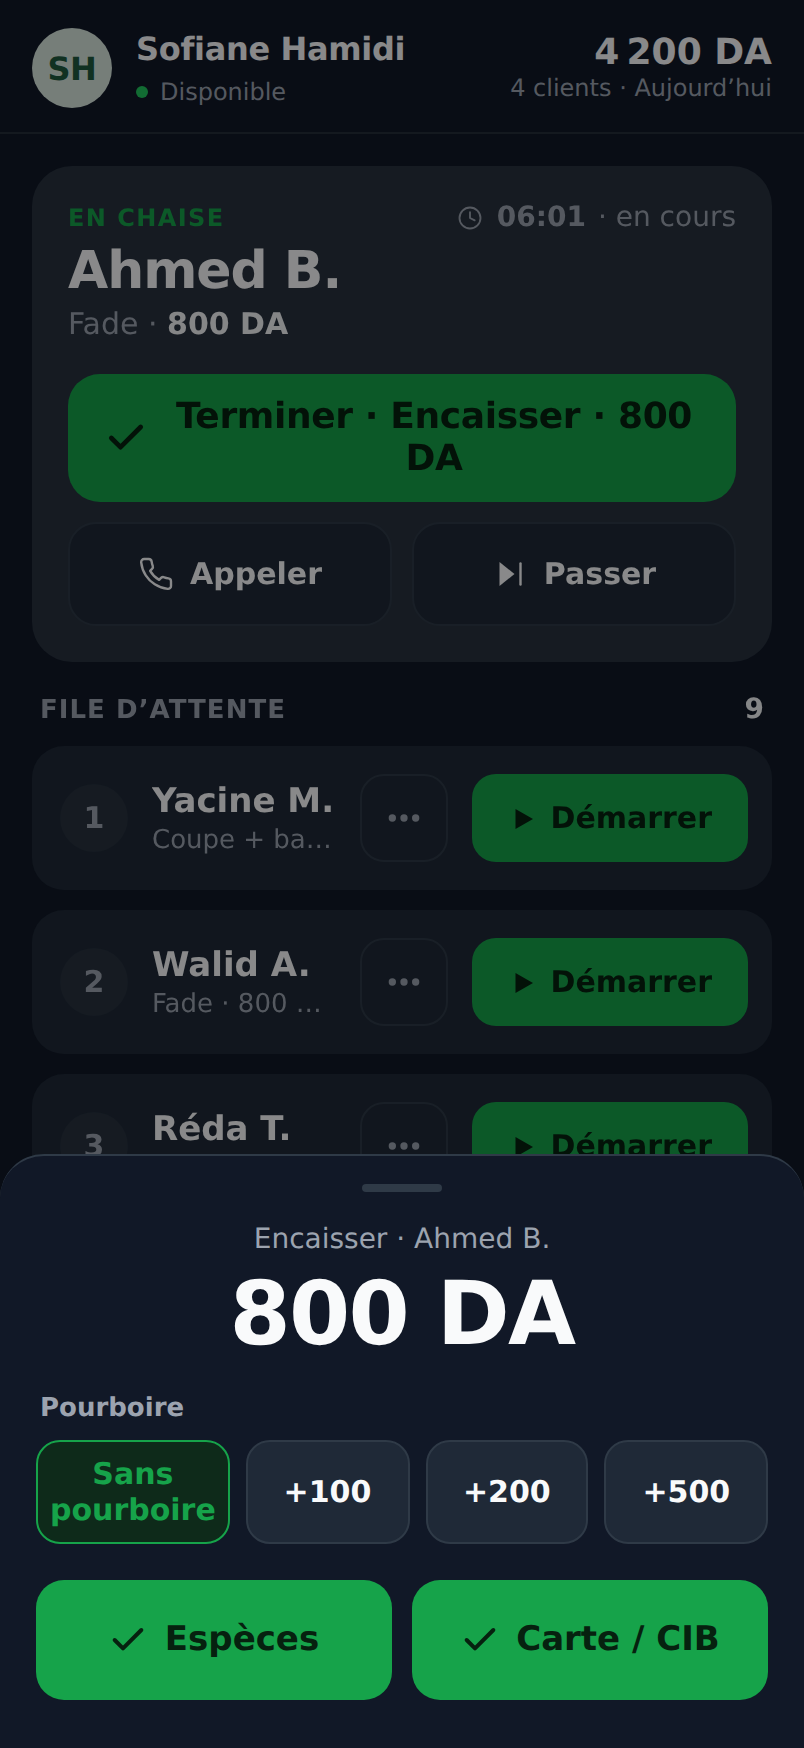
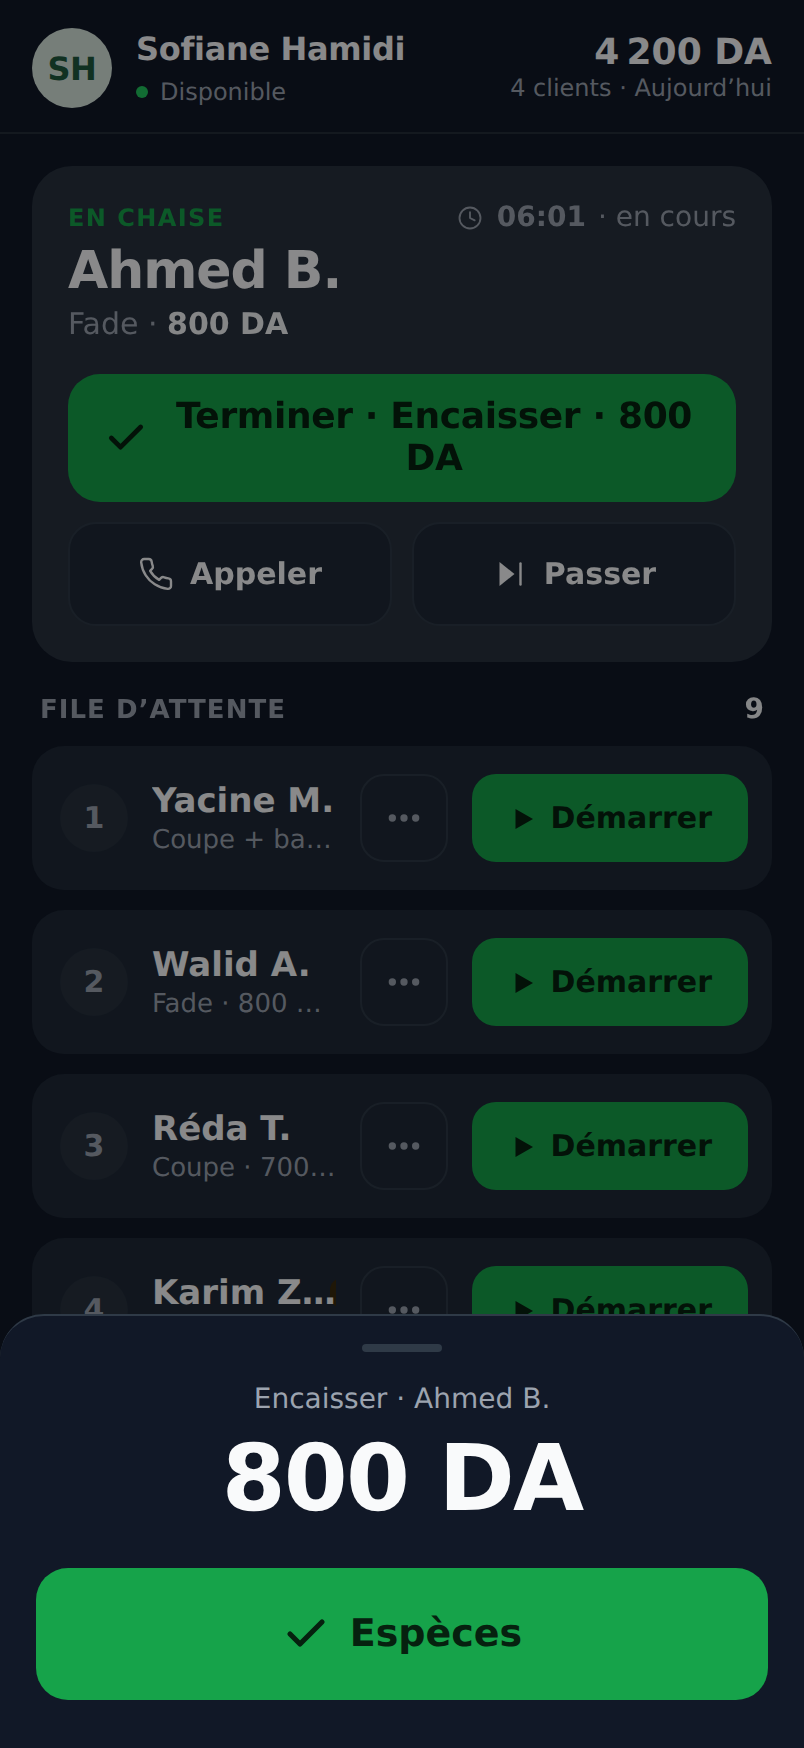
Checkout: cash only — remove tip (pourboire) and card/CIB options
Per request: the fast checkout now shows just the amount + one big "Espèces"
(cash) button. Removed the tip chips and the "Carte / CIB" button, dropped the
now-unused tip/card strings, and refreshed the checkout screenshot.

https://claude.ai/code/session_01KXeZ2jfMa8Hu5hkugmRzRp

diff --git a/src/barber-fast.jsx b/src/barber-fast.jsx
@@ -12,7 +12,6 @@ const FAST_STR = {
     queue: 'File d’attente', empty: 'File vide — soufflez un peu ☕', waiting: 'en attente',
     add: 'Ajouter un client', addToQueue: 'Ajouter à la file', walkIn: 'Walk-in',
     name: 'Nom (optionnel)', service: 'Service', cashIn: 'Encaisser', cash: 'Espèces',
-    card: 'Carte / CIB', noTip: 'Sans pourboire', tip: 'Pourboire', total: 'Total',
     noShow: 'Absent', today: "Aujourd’hui", clients: 'clients', doneToday: 'Terminés',
     revenue: 'Recette', available: 'Disponible', busy: 'Occupé', running: 'en cours',
     tabNow: 'File', tabDone: 'Terminés', tabMore: 'Réglages', language: 'Langue',
@@ -25,7 +24,6 @@ const FAST_STR = {
     queue: 'قائمة الانتظار', empty: 'القائمة فارغة — استرِح قليلاً ☕', waiting: 'بالانتظار',
     add: 'إضافة زبون', addToQueue: 'أضف إلى القائمة', walkIn: 'بدون موعد',
     name: 'الاسم (اختياري)', service: 'الخدمة', cashIn: 'تحصيل', cash: 'نقداً',
-    card: 'بطاقة', noTip: 'بدون بقشيش', tip: 'بقشيش', total: 'المجموع',
     noShow: 'غائب', today: 'اليوم', clients: 'زبائن', doneToday: 'المنتهية',
     revenue: 'المداخيل', available: 'متاح', busy: 'مشغول', running: 'جارٍ',
     tabNow: 'القائمة', tabDone: 'المنتهية', tabMore: 'الإعدادات', language: 'اللغة',
@@ -325,43 +323,25 @@ function tag(bg, fg) {
   };
 }
 
-// Fast checkout: amount up top, optional tip chips, two big "paid by" buttons.
+// Fast checkout: amount + a single big "cash" button — cash only, no tip.
 function FastPaySheet({ L, t, fmt, client, onClose, onPay }) {
-  const [tip, setTip] = React.useState(0);
-  const total = client.price + tip;
-  const tips = [0, 100, 200, 500];
+  const total = client.price;
   return (
     <div onClick={onClose} style={overlay()}>
       <div onClick={e => e.stopPropagation()} style={sheet(t.dir)}>
         <div style={grabber()} />
-        <div style={{ textAlign: 'center', marginBottom: 6 }}>
+        <div style={{ textAlign: 'center', marginBottom: 18 }}>
           <div style={{ fontSize: 14, color: TOKENS.muted }}>{L.cashIn} · {client.name}</div>
-          <div style={{ fontSize: 44, fontWeight: 800, letterSpacing: '-0.02em', marginTop: 4, fontVariantNumeric: 'tabular-nums' }}>{fmt(total)}</div>
+          <div style={{ fontSize: 46, fontWeight: 800, letterSpacing: '-0.02em', marginTop: 4, fontVariantNumeric: 'tabular-nums' }}>{fmt(total)}</div>
         </div>
-        <div style={{ fontSize: 13, color: TOKENS.muted, fontWeight: 600, margin: '14px 2px 8px' }}>{L.tip}</div>
-        <div style={{ display: 'grid', gridTemplateColumns: '1fr 1fr 1fr 1fr', gap: 8 }}>
-          {tips.map(v => (
-            <button key={v} onClick={() => setTip(v)} style={{
-              minHeight: 52, borderRadius: 12, cursor: 'pointer', fontFamily: 'inherit', fontSize: 15, fontWeight: 700,
-              background: tip === v ? TOKENS.accentSoft : TOKENS.surface, color: tip === v ? TOKENS.accent : TOKENS.ink,
-              border: `1.5px solid ${tip === v ? TOKENS.accent : TOKENS.border}`,
-            }}>{v === 0 ? L.noTip : `+${v}`}</button>
-          ))}
-        </div>
-        <div style={{ display: 'flex', gap: 10, marginTop: 18 }}>
-          <button onClick={() => onPay(total, 'cash')} style={payBtn()}><Icon name="check" size={20} stroke={2.4} /> {L.cash}</button>
-          <button onClick={() => onPay(total, 'card')} style={payBtn()}><Icon name="check" size={20} stroke={2.4} /> {L.card}</button>
-        </div>
+        <button onClick={() => onPay(total, 'cash')} style={{
+          width: '100%', minHeight: 66, borderRadius: 16, cursor: 'pointer', fontFamily: 'inherit',
+          background: TOKENS.accent, color: '#06210F', border: 'none',
+          display: 'inline-flex', alignItems: 'center', justifyContent: 'center', gap: 10, fontSize: 19, fontWeight: 800,
+        }}><Icon name="check" size={24} stroke={2.6} /> {L.cash}</button>
       </div>
     </div>
   );
-  function payBtn() {
-    return {
-      flex: 1, minHeight: 60, borderRadius: 14, cursor: 'pointer', fontFamily: 'inherit',
-      background: TOKENS.accent, color: '#06210F', border: 'none',
-      display: 'inline-flex', alignItems: 'center', justifyContent: 'center', gap: 8, fontSize: 17, fontWeight: 800,
-    };
-  }
 }
 
 // Fast walk-in: optional name + tap a service chip + one big "add".
